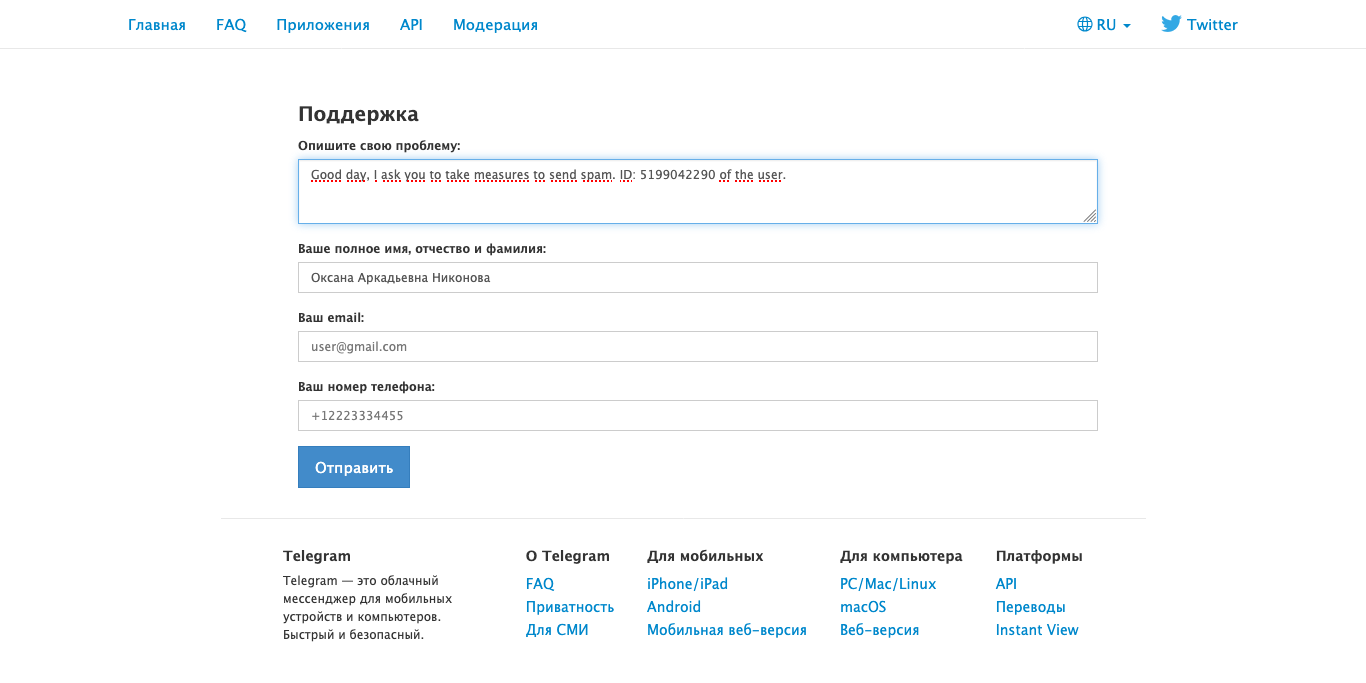
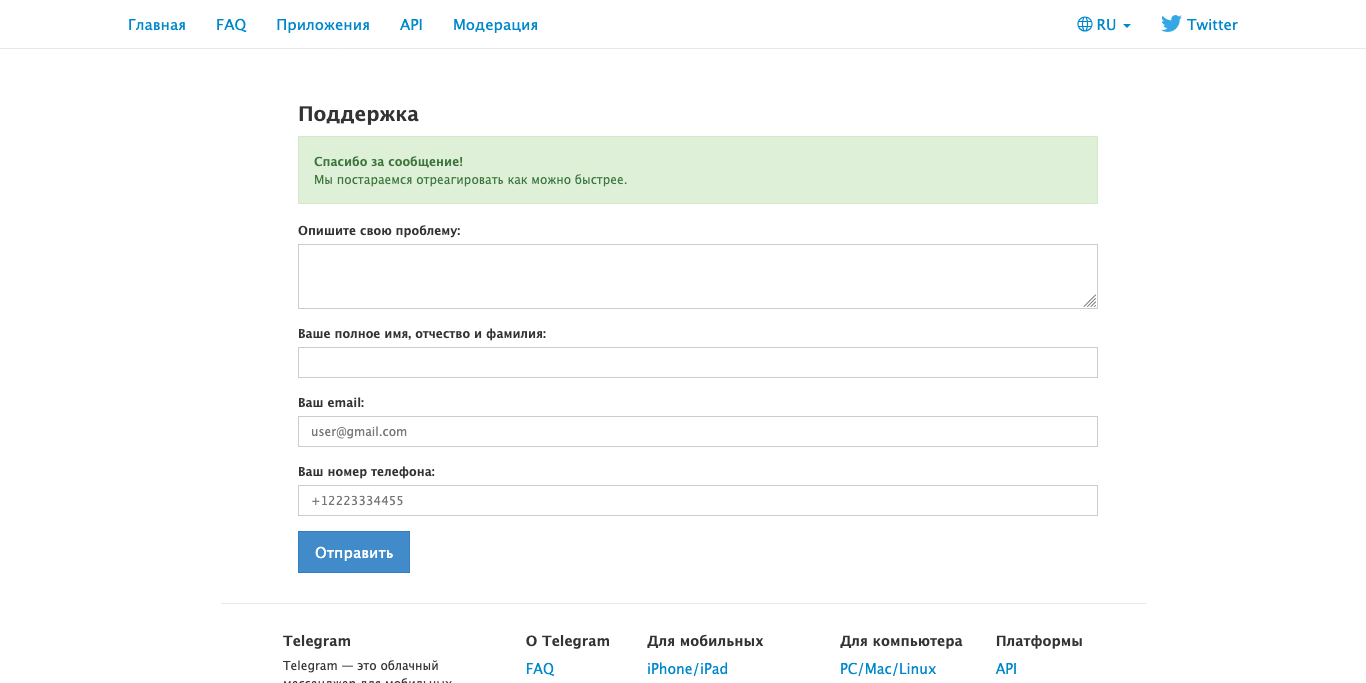
Fixed ALL bugs

diff --git a/stg.py b/stg.py
@@ -5,7 +5,7 @@ from selenium.webdriver.common.proxy import Proxy, ProxyType
 from selenium.webdriver.firefox.options import Options
 from selenium.webdriver.common.by import By
 from selenium.webdriver.common.keys import Keys
-from selenium.common.exceptions import WebDriverException, NoSuchElementException, TimeoutException
+from selenium.common.exceptions import WebDriverException, NoSuchElementException, TimeoutException, StaleElementReferenceException
 from selenium.webdriver.support.ui import WebDriverWait
 from selenium.webdriver.support import expected_conditions as EC
 from colorama import Fore, Style
@@ -34,16 +34,16 @@ complaint_types = {
         "Good afternoon, please block access to pornographic content. Account with ID: {user_id}. The problem is that it sells child pornography",
          "Hello, I want to file a complaint about pornography. User ID: {user_id} sells child pornography, please take steps to delete the account. Thank you",
          "This user with ID: {user_id} distributes prohibited children's content (dp, cp), I ask you to delete this account. Thank you",
-         "Пользователь {user_id} распространяет порнографические материалы. Прошу заблокировать его аккаунт за нарушение правил платформы. Ссылка на материалы: {id}",
-                "Обнаружено распространение порнографии пользователем {user_id}. Прошу принять меры. Ссылка на материалы: {id}",
-                "Добрый день, прошу заблокировать аккаунт с  ID: {user_id}. Проблема в том,что он занимается продажей детской порнографией, вот ссылка на нарушение: {id}",
-                "Здравствуйте, хочу подать жалобу на порнографию.  Пользователь с  ID: {user_id} продает детскую порнографию,вот ссылка на нарушение:{id},прошу принять меры по удалению акаунта. Спасибо",
-                "Данный пользователь с ID: {user_id} растространяет запрещеный детский контент (дп,цп) прошу вас удалить данный акаунт.Также ссылка на нарушение:{id}.Спасибо",
-                "Добрый день, прошу заблокировать аккунт с айди: {user_id} за распространение порнографии, точнее этот человек размещает порнографию, а также детскую порнографию в чатах ({id}) и так далее, что может повлиять на психику людей, которые находятся в этих чатах, а также это нарушает вашу политику, прошу заблокировать данного человека, также на момент жалобы у этого человека на аватарке было неприличное фото, поэтому прошу вас отреагировать на это быстро и четко. Заранее спасибо!",
-                         "Hello, I want to file a complaint about pornography. User with ID: {user_id} sells child pornography,link to violation: {id},please take steps to delete the account. Thank you",
+         "Пользователь {user_id} распространяет порнографические материалы. Прошу заблокировать его аккаунт за нарушение правил платформы. Ссылка на материалы: {user_id}",
+                "Обнаружено распространение порнографии пользователем {user_id}. Прошу принять меры. Ссылка на материалы: {user_id}",
+                "Добрый день, прошу заблокировать аккаунт с  ID: {user_id}. Проблема в том,что он занимается продажей детской порнографией, вот ссылка на нарушение: {user_id}",
+                "Здравствуйте, хочу подать жалобу на порнографию.  Пользователь с  ID: {user_id} продает детскую порнографию,вот ссылка на нарушение:{user_id},прошу принять меры по удалению акаунта. Спасибо",
+                "Данный пользователь с ID: {user_id} растространяет запрещеный детский контент (дп,цп) прошу вас удалить данный акаунт.Также ссылка на нарушение:{user_id}.Спасибо",
+                "Добрый день, прошу заблокировать аккунт с айди: {user_id} за распространение порнографии, точнее этот человек размещает порнографию, а также детскую порнографию в чатах ({user_id}) и так далее, что может повлиять на психику людей, которые находятся в этих чатах, а также это нарушает вашу политику, прошу заблокировать данного человека, также на момент жалобы у этого человека на аватарке было неприличное фото, поэтому прошу вас отреагировать на это быстро и четко. Заранее спасибо!",
+                         "Hello, I want to file a complaint about pornography. User with ID: {user_id} sells child pornography,link to violation: {user_id},please take steps to delete the account. Thank you",
                 "Good afternoon, please block the account with ID: {user_id}. The problem is that he is selling child pornography.Link to violation: {violation_link}.",
-                "This user with ID: {user_id} distributes prohibited children's content (dp, cp),and link to violation: {id},I ask you to delete this account. Thank you",
-                "Good afternoon, I ask you to block the account with ID: {user_id} for distributing pornography, more precisely, this person posts pornography, as well as child pornography in chats and so on,link to violation: {id},which can affect the psyche of people who are in these chats, and also violates your policy, I ask you to block this person, also at the time of the complaint this person had an indecent photo on his avatar, so I ask you to respond to this quickly and clearly. Thank you in advance!",
+                "This user with ID: {user_id} distributes prohibited children's content (dp, cp),and link to violation: {user_id},I ask you to delete this account. Thank you",
+                "Good afternoon, I ask you to block the account with ID: {user_id} for distributing pornography, more precisely, this person posts pornography, as well as child pornography in chats and so on,link to violation: {user_id},which can affect the psyche of people who are in these chats, and also violates your policy, I ask you to block this person, also at the time of the complaint this person had an indecent photo on his avatar, so I ask you to respond to this quickly and clearly. Thank you in advance!",
     ]},
     3: {"name": "Фишинг", "texts": [
         "Здравствуйте, сообщаю о подозрительной попытке фишинга. Акк: {user} ID: {user_id}.",
@@ -64,7 +64,7 @@ complaint_types = {
        "Привествую Вас. Я являюсь родителем моего ребёнка и ему поступют угрозы об сливе данных с данного аккаунта {user}, id:{user_id}. Прошу удалить его аккаунт, так как теперь у моего ребёнка нарушена психика!",
        "Мне сказали, что телеграм самый безопасный мессенджер, только сейчас этот пользователь {user} id: {user_id} хочет слить мои данные.",
        "Hello, dear telegram moderator, I want to complain to you about a channel that sells doxing and swatting services ID: {user_id}, I ask you to take measures to delete the account.",
-         "Good day, I ask you to take action on my complaint. The telegram user under ID: {id} is engaged in selling the services of Doxing and Swatting, I ask you to take action. Thank you.",
+         "Good day, I ask you to take action on my complaint. The telegram user under ID: {user_id} is engaged in selling the services of Doxing and Swatting, I ask you to take action. Thank you.",
          "This account under ID: {user_id} is engaged in doxing and swatting, please take measures to delete the account.",
     ]},
     5: {"name": "Мошенничество", "texts": [
@@ -134,91 +134,91 @@ def setup_selenium_with_tor():
 
 def send_to_telegram_support_selenium(data, complaint_text):
     """
-     Отправляет жалобу через сайт поддержки Telegram с использованием Selenium.
+    Отправляет жалобу через сайт поддержки Telegram с использованием Selenium.
     """
     driver = None
     try:
-         driver = setup_selenium_with_tor()
-         driver.get("https://telegram.org/support?setln=ru")
-         print(f"[{Fore.YELLOW}*{Style.RESET_ALL}] Открыта страница: {driver.title}")
- 
-         # Ожидание полей формы
-         try:
-             # Генерация фейковых данных для ФИО с использованием Faker
-             fake_name = fake.name()  # Фейковое ФИО
- 
-             # Заполняем поле "ФИО"
-             legal_name_field = WebDriverWait(driver, 20).until(
-                 EC.presence_of_element_located((By.NAME, "legal_name"))  # Используем name="legal_name"
-             )
-             legal_name_field.send_keys(fake_name)
- 
-             # Заполняем поле "Текст жалобы"
-             message_field = WebDriverWait(driver, 20).until(
-                 EC.presence_of_element_located((By.NAME, "message"))  # Используем name="message"
-             )
-             message_field.send_keys(complaint_text)
-             
-             # Сохраняем скриншот после заполнения всех полей
-             filled_fields_screenshot = os.path.join(os.getcwd(), "filled_fields_screenshot.png")
-             driver.save_screenshot(filled_fields_screenshot)
-             print(f"[INFO] Скриншот после заполнения полей сохранён: {filled_fields_screenshot}")
+        driver = setup_selenium_with_tor()
+        driver.get("https://telegram.org/support?setln=ru")
+        print(f"[{Fore.YELLOW}*{Style.RESET_ALL}] Открыта страница: {driver.title}")
 
-             # Находим кнопку "Отправить" по классу
-             submit_button = WebDriverWait(driver, 10).until(
-                 EC.element_to_be_clickable((By.CLASS_NAME, "btn-primary"))
-             )
-             
-             try:
-                 # Заново находим кнопку "Отправить", если DOM был обновлён
-                 submit_button = WebDriverWait(driver, 10).until(
-                 EC.element_to_be_clickable((By.CLASS_NAME, "btn-primary"))
-                 )
-                 submit_button.click()
-                 print(f"[{Fore.GREEN}+{Style.RESET_ALL}] Жалоба успешно отправлена через Selenium.")
-             except TimeoutException:
-                 print(f"[{Fore.RED}-{Style.RESET_ALL}] Кнопка 'Отправить' не найдена.")
-             except StaleElementReferenceException:
-                 print(f"[{Fore.RED}-{Style.RESET_ALL}] Кнопка 'Отправить' стала недействительной. Переинициализация...")
-                 submit_button = WebDriverWait(driver, 10).until(
-                 EC.element_to_be_clickable((By.CLASS_NAME, "btn-primary"))
-                 )           
+        # Ожидание полей формы
+        try:
+            # Генерация фейковых данных для ФИО и электронной почты с использованием Faker
+            fake_name = fake.name()  # Фейковое ФИО
+            fake_email = fake.email()  # Фейковая электронная почта
+
+            # Заполняем поле "ФИО"
+            legal_name_field = WebDriverWait(driver, 20).until(
+                EC.presence_of_element_located((By.NAME, "legal_name"))  # Используем name="legal_name"
+            )
+            legal_name_field.send_keys(fake_name)
+
+            # Заполняем поле "E-mail"
+            email_field = WebDriverWait(driver, 20).until(
+                EC.presence_of_element_located((By.NAME, "email"))  # Используем name="email"
+            )
+            email_field.send_keys(fake_email)
+
+            # Заполняем поле "Текст жалобы"
+            message_field = WebDriverWait(driver, 20).until(
+                EC.presence_of_element_located((By.NAME, "message"))  # Используем name="message"
+            )
+            message_field.send_keys(complaint_text)
+            
+            # Сохраняем скриншот после заполнения всех полей
+            filled_fields_screenshot = os.path.join(os.getcwd(), "filled_fields_screenshot.png")
+            driver.save_screenshot(filled_fields_screenshot)
+            print(f"[INFO] Скриншот после заполнения полей сохранён: {filled_fields_screenshot}")
+
+            # Находим кнопку "Отправить" по классу
+            submit_button = WebDriverWait(driver, 10).until(
+                EC.element_to_be_clickable((By.CLASS_NAME, "btn-primary"))
+            )
+            
             # Нажимаем на кнопку
-                 submit_button.click()
- 
-             # Поля e-mail и номера телефона уже заполнены, отправляем форму
-             message_field.send_keys(Keys.RETURN)
-             print(f"[{Fore.GREEN}+{Style.RESET_ALL}] Жалоба успешно отправлена через Selenium.")
-             log_status("Жалоба успешно отправлена через Selenium.")
- 
-             # Сохраняем скриншот после отправки жалобы
-             submitted_screenshot = os.path.join(os.getcwd(), "submitted_screenshot.png")
-             driver.save_screenshot(submitted_screenshot)
-             print(f"[INFO] Скриншот после отправки жалобы сохранён: {submitted_screenshot}")
-         except TimeoutException:
-             # Сохранение HTML страницы для диагностики
-             with open("page_source.html", "w", encoding="utf-8") as f:
-                 f.write(driver.page_source)
-             print(f"[{Fore.RED}-{Style.RESET_ALL}] Поля формы не найдены. Проверьте страницу.")
-             log_status("Поля формы не найдены. Проверьте страницу.")
-             
-             # Сохранение скриншота страницы
-             screenshot_path = "screenshot.png"
-             driver.save_screenshot(screenshot_path)
-             print(f"[{Fore.YELLOW}*{Style.RESET_ALL}] Скриншот сохранён: {screenshot_path}")
-             
-             # Запись всех доступных элементов на странице
-             all_elements = driver.find_elements(By.XPATH, "//*")
-             with open("elements_log.txt", "w", encoding="utf-8") as f:
-                 for element in all_elements:
-                     f.write(f"Tag: {element.tag_name}, Attributes: {element.get_attribute('outerHTML')}\n")
-             print(f"[{Fore.YELLOW}*{Style.RESET_ALL}] Все элементы страницы сохранены в 'elements_log.txt'.")
+            try:
+                submit_button.click()
+                print(f"[{Fore.GREEN}+{Style.RESET_ALL}] Жалоба успешно отправлена через Selenium.")
+            except StaleElementReferenceException:
+                print(f"[{Fore.RED}-{Style.RESET_ALL}] Кнопка 'Отправить' стала недействительной. Повторный поиск...")
+                submit_button = WebDriverWait(driver, 10).until(
+                    EC.element_to_be_clickable((By.CLASS_NAME, "btn-primary"))
+                )
+                submit_button.click()
+            except TimeoutException:
+                print(f"[{Fore.RED}-{Style.RESET_ALL}] Кнопка 'Отправить' не найдена.")
+
+            # Сохраняем скриншот после отправки жалобы
+            submitted_screenshot = os.path.join(os.getcwd(), "submitted_screenshot.png")
+            driver.save_screenshot(submitted_screenshot)
+            print(f"[INFO] Скриншот после отправки жалобы сохранён: {submitted_screenshot}")
+            log_status("Жалоба успешно отправлена через Selenium.")
+
+        except TimeoutException:
+            # Сохранение HTML страницы для диагностики
+            with open("page_source.html", "w", encoding="utf-8") as f:
+                f.write(driver.page_source)
+            print(f"[{Fore.RED}-{Style.RESET_ALL}] Поля формы не найдены. Проверьте страницу.")
+            log_status("Поля формы не найдены. Проверьте страницу.")
+            
+            # Сохранение скриншота страницы
+            screenshot_path = "screenshot.png"
+            driver.save_screenshot(screenshot_path)
+            print(f"[{Fore.YELLOW}*{Style.RESET_ALL}] Скриншот сохранён: {screenshot_path}")
+            
+            # Запись всех доступных элементов на странице
+            all_elements = driver.find_elements(By.XPATH, "//*")
+            with open("elements_log.txt", "w", encoding="utf-8") as f:
+                for element in all_elements:
+                    f.write(f"Tag: {element.tag_name}, Attributes: {element.get_attribute('outerHTML')}\n")
+            print(f"[{Fore.YELLOW}*{Style.RESET_ALL}] Все элементы страницы сохранены в 'elements_log.txt'.")
     except WebDriverException as e:
-         print(f"[{Fore.RED}-{Style.RESET_ALL}] Ошибка при отправке через Selenium: {e}")
-         log_status(f"Ошибка при отправке через Selenium: {e}")
+        print(f"[{Fore.RED}-{Style.RESET_ALL}] Ошибка при отправке через Selenium: {e}")
+        log_status(f"Ошибка при отправке через Selenium: {e}")
     finally:
-         if driver:
-             driver.quit()
+        if driver:
+            driver.quit()
 
 def send_requests(data):
     """
@@ -302,12 +302,13 @@ def get_user_input():
         violation_link = input("Введите ссылку на нарушение (можно пропустить): ").strip()
 
         return {
-            "complaint_type": complaint_type,
-            "request_count": request_count,
-            "username": username,
-            "user_id": user_id,
-            "violation_link": violation_link,
-        }
+         "complaint_type": complaint_type,
+         "request_count": request_count,
+         "username": username,
+         "user_id": user_id or "не указан",
+         "violation_link": violation_link,
+         }
+
     except ValueError as e:
         print(f"[{Fore.RED}-{Style.RESET_ALL}] Ошибка ввода: {e}")
         log_status(f"Ошибка ввода: {e}")
